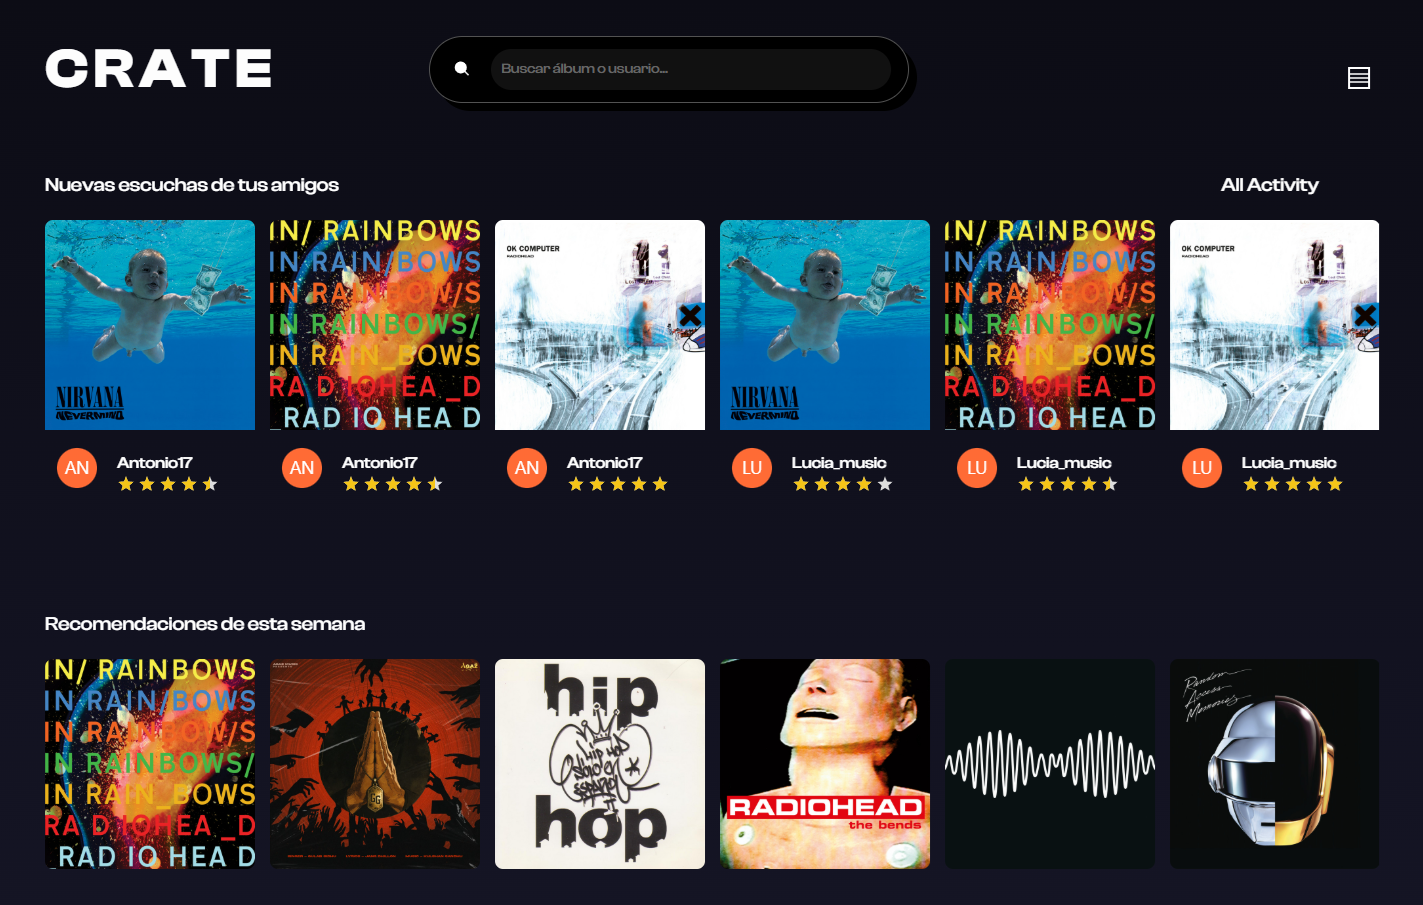
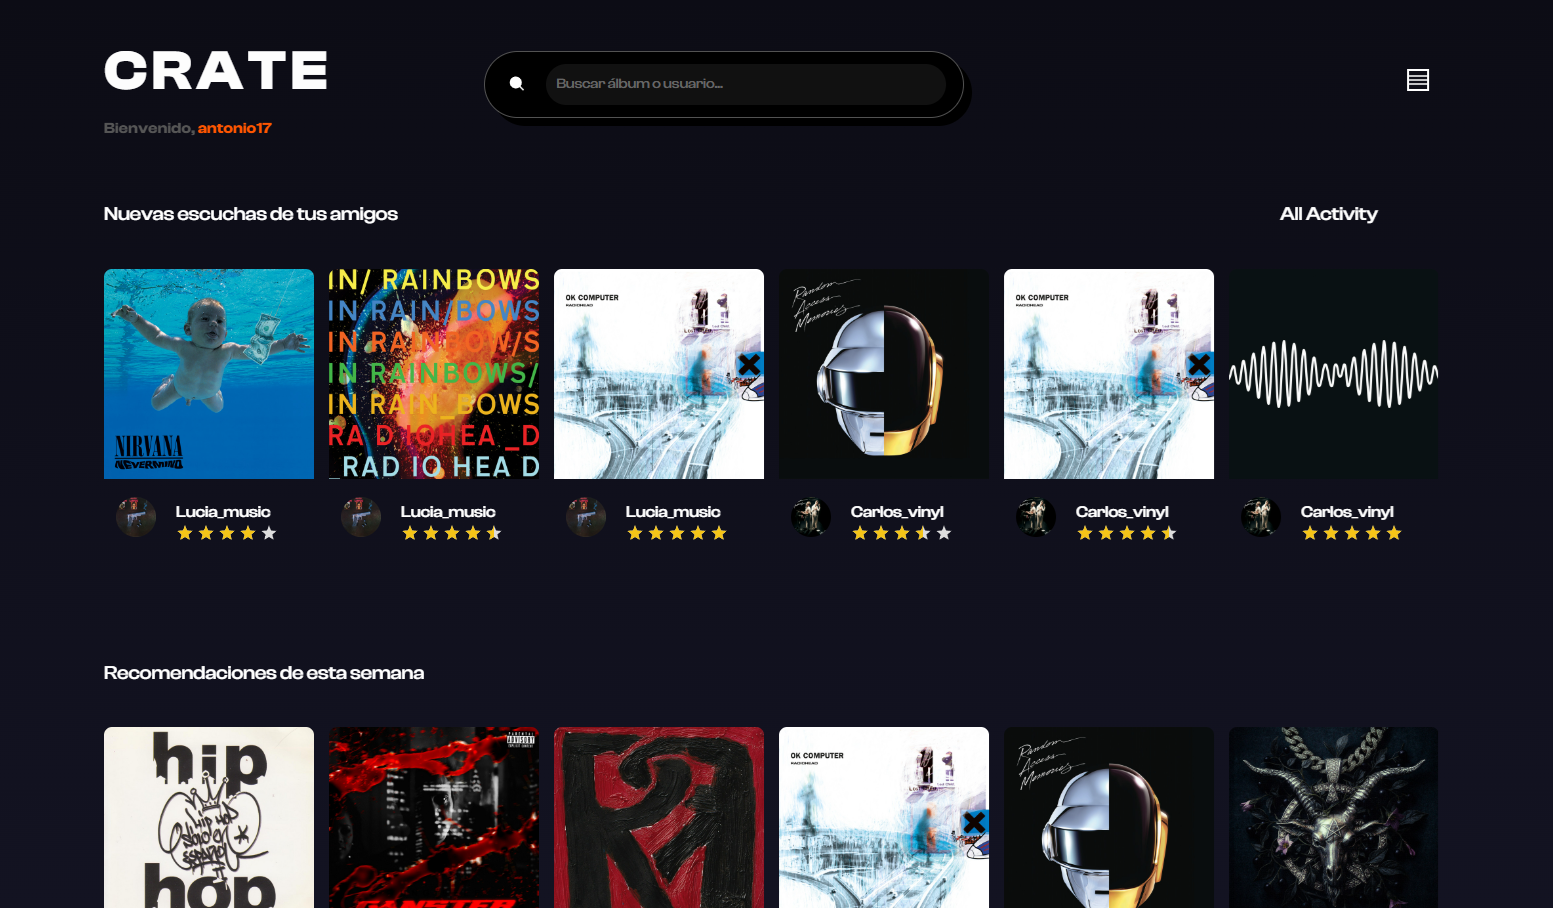
nuevos cambios

diff --git a/src/components/user/Userhome.css b/src/components/user/Userhome.css
@@ -60,7 +60,7 @@
 }
 
 .userhome-greeting {
-    font-family: 'DM Sans', sans-serif;
+    font-family: 'ClashDisplay-SemiBold', sans-serif;
     font-size: 0.95rem;
     color: #555;
     font-weight: 300;

diff --git a/src/components/user/FeaturedReviews.css b/src/components/user/FeaturedReviews.css
@@ -2,7 +2,7 @@
     width: 70%;
     margin-left: 320px;
     margin-top: 10px;
-    margin-bottom: 60px;
+    padding-bottom: 90px;
 }
 
 /* ── Título + subtítulo ── */
